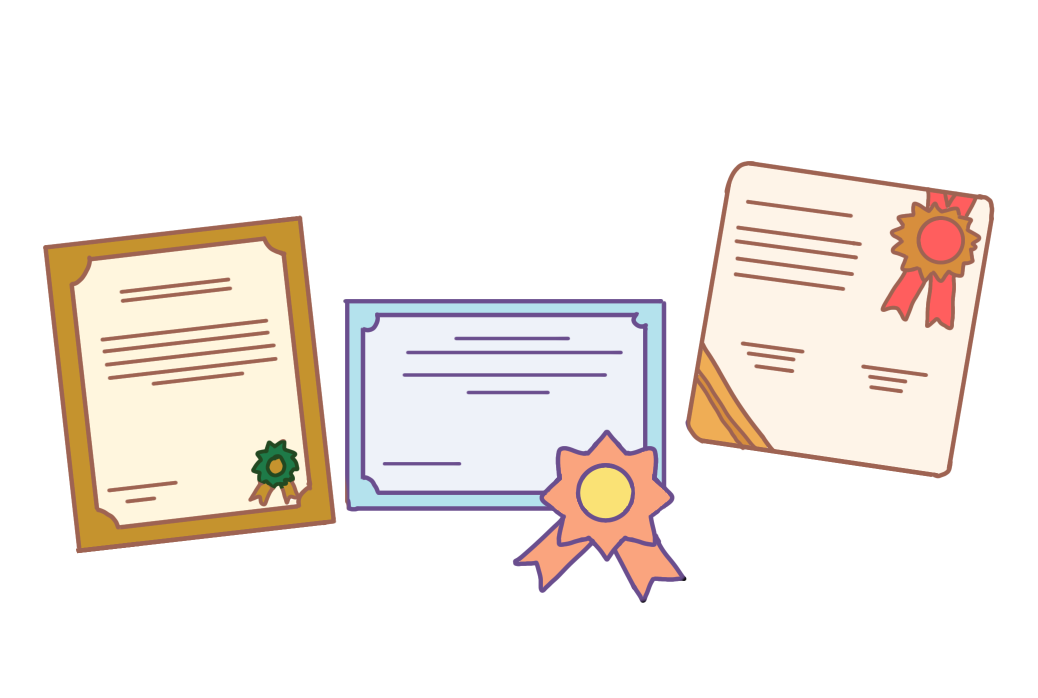
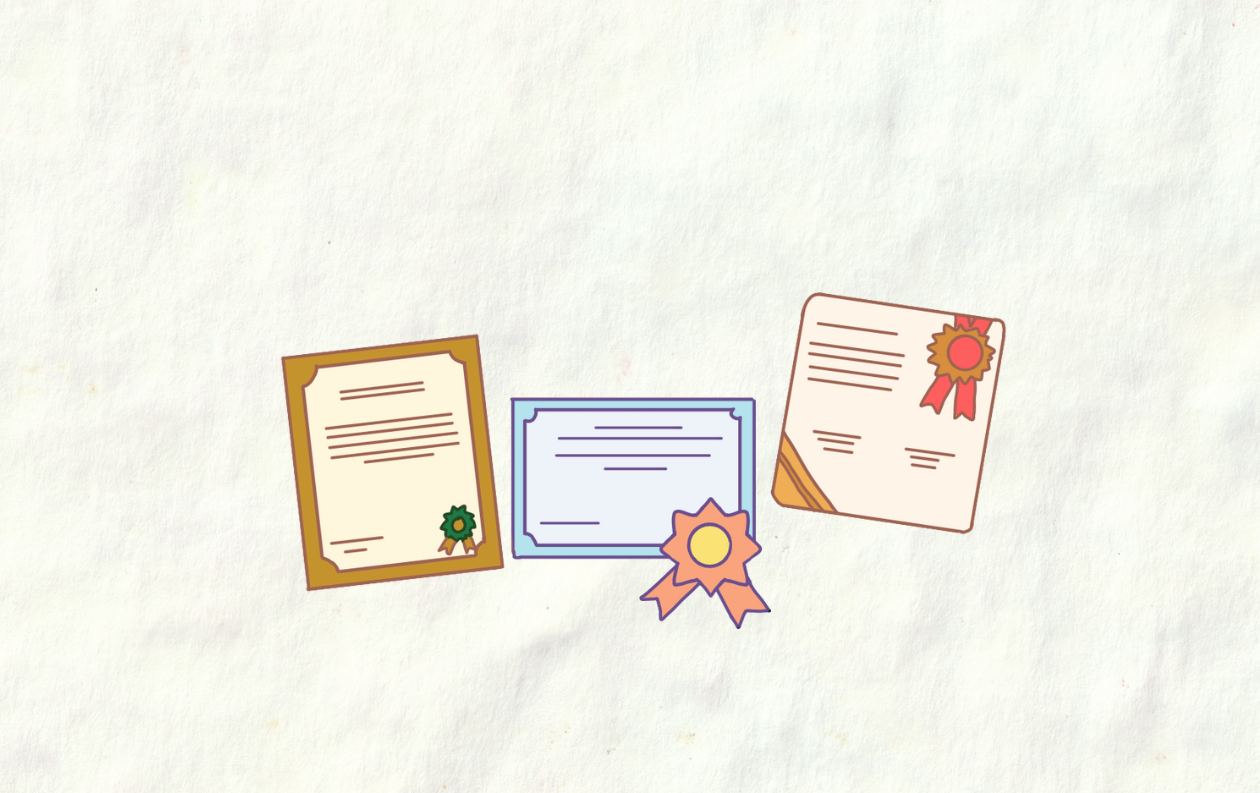
fix: at

diff --git a/src/components/THpage/HorizontalSection.jsx b/src/components/THpage/HorizontalSection.jsx
@@ -3,25 +3,74 @@ import React, { useRef, useEffect, useState } from 'react';
 const HorizontalSection = () => {
   const containerRef = useRef(null);
   const [, setIsScrolling] = useState(false);
+  const [audioReady, setAudioReady] = useState(false);
 
   // Danh sách ảnh
   const images = Array.from({ length: 9 }, (_, i) => `/THpage/horizontal-scroll/h${i + 1}.jpg`);
   const audioRef = useRef(null);
 
-  
+  // Preload và track audio ready state
+  useEffect(() => {
+    const audio = audioRef.current;
+    if (!audio) return;
+
+    const handleCanPlay = () => {
+      setAudioReady(true);
+    };
+
+    const handleError = (e) => {
+      console.error("Audio loading error:", e);
+    };
+
+    audio.addEventListener('canplaythrough', handleCanPlay);
+    audio.addEventListener('error', handleError);
+
+    // Force load audio
+    audio.load();
+
+    return () => {
+      audio.removeEventListener('canplaythrough', handleCanPlay);
+      audio.removeEventListener('error', handleError);
+    };
+  }, []);
+
   // Xử lý phát/dừng audio khi scroll vào/ra section
   useEffect(() => {
     const audio = audioRef.current;
     if (!audio) return;
 
+    const playAudio = async () => {
+      try {
+        // Đợi audio ready nếu chưa sẵn sàng
+        if (!audioReady) {
+          await new Promise((resolve) => {
+            const checkReady = () => {
+              if (audio.readyState >= 3) { // HAVE_FUTURE_DATA or HAVE_ENOUGH_DATA
+                resolve();
+              } else {
+                setTimeout(checkReady, 100);
+              }
+            };
+            checkReady();
+          });
+        }
+
+        audio.currentTime = 0;
+        await audio.play();
+      } catch (err) {
+        console.log("Audio play failed:", err);
+        // Retry sau 500ms nếu fail
+        setTimeout(() => {
+          audio.play().catch(e => console.log("Retry failed:", e));
+        }, 500);
+      }
+    };
+
     const handleIntersection = (entries) => {
       entries.forEach((entry) => {
         if (entry.isIntersecting) {
           // Scroll vào section -> phát audio từ đầu
-          audio.currentTime = 0;
-          audio.play().catch((err) => {
-            console.log("Audio play failed:", err);
-          });
+          playAudio();
         } else {
           // Scroll ra khỏi section -> dừng audio
           audio.pause();
@@ -46,7 +95,7 @@ const HorizontalSection = () => {
         audio.pause();
       }
     };
-  }, []);
+  }, [audioReady]);
 
   useEffect(() => {
     const container = containerRef.current;
@@ -54,7 +103,7 @@ const HorizontalSection = () => {
 
     const handleWheel = (e) => {
       const containerRect = container.getBoundingClientRect();
-      
+
       // Kiểm tra section có trong viewport không
       const isInView = containerRect.top <= 100 && containerRect.bottom >= 0;
 
@@ -110,7 +159,7 @@ const HorizontalSection = () => {
   return (
     <div
       ref={containerRef}
-      className="relative h-screen flex items-center justify-center bg-white overflow-x-hidden overflow-y-hidden"
+      className="relative min-h-screen flex items-center justify-center bg-white overflow-x-hidden overflow-y-hidden"
     >
       {/* Audio element */}
       <audio ref={audioRef} src="/THpage/voiceHorizon.m4a" preload="auto" />

diff --git a/src/components/THpage/FinalSection.jsx b/src/components/THpage/FinalSection.jsx
@@ -1,22 +1,72 @@
-import React, { useRef, useEffect } from "react";
+import React, { useRef, useEffect, useState } from "react";
 
 const FinalSection = () => {
   const sectionRef = useRef(null);
   const audioRef = useRef(null);
+  const [audioReady, setAudioReady] = useState(false);
+
+  // Preload và track audio ready state
+  useEffect(() => {
+    const audio = audioRef.current;
+    if (!audio) return;
+
+    const handleCanPlay = () => {
+      setAudioReady(true);
+    };
+
+    const handleError = (e) => {
+      console.error("Audio loading error:", e);
+    };
+
+    audio.addEventListener('canplaythrough', handleCanPlay);
+    audio.addEventListener('error', handleError);
+
+    // Force load audio
+    audio.load();
+
+    return () => {
+      audio.removeEventListener('canplaythrough', handleCanPlay);
+      audio.removeEventListener('error', handleError);
+    };
+  }, []);
 
   // Xử lý phát/dừng audio khi scroll vào/ra section
   useEffect(() => {
     const audio = audioRef.current;
     if (!audio) return;
 
+    const playAudio = async () => {
+      try {
+        // Đợi audio ready nếu chưa sẵn sàng
+        if (!audioReady) {
+          await new Promise((resolve) => {
+            const checkReady = () => {
+              if (audio.readyState >= 3) { // HAVE_FUTURE_DATA or HAVE_ENOUGH_DATA
+                resolve();
+              } else {
+                setTimeout(checkReady, 100);
+              }
+            };
+            checkReady();
+          });
+        }
+
+        audio.currentTime = 0;
+        await audio.play();
+      } catch (err) {
+        console.log("Audio play failed:", err);
+        // Retry sau 500ms nếu fail
+        setTimeout(() => {
+          audio.play().catch(e => console.log("Retry failed:", e));
+        }, 500);
+      }
+    };
+
     const handleIntersection = (entries) => {
       entries.forEach((entry) => {
         if (entry.isIntersecting) {
           // Scroll vào section -> phát audio từ đầu
-          audio.currentTime = 0;
-          audio.play().catch((err) => {
-            console.log("Audio play failed:", err);
-          });
+          playAudio();
         } else {
           // Scroll ra khỏi section -> dừng audio
           audio.pause();
@@ -41,13 +91,13 @@ const FinalSection = () => {
         audio.pause();
       }
     };
-  }, []);
+  }, [audioReady]);
 
   return (
     <div ref={sectionRef} className="h-screen flex flex-col items-center justify-center">
       <audio ref={audioRef} src="/THpage/voiceFinal.m4a" preload="auto" />
       <img
-        src="/THpage/final.webp"
+        src="/THpage/final.jpg"
         alt="final"
         className="w-full h-full object-cover"
       />

diff --git a/src/components/ATpage/RoleSection.jsx b/src/components/ATpage/RoleSection.jsx
@@ -11,6 +11,8 @@ const RoleSection = forwardRef(({ scrollContainerRef }, ref) => {
   const sectionRef = useRef(null);
   const isScrollingRef = useRef(false);
   const currentImageRef = useRef(currentImage);
+  const text = ["", "Ở giảng đường, Anh Thư là một sinh viên lặng lẽ, tập trung vào học tập và kỷ luật bản thân, quen với áp lực và những đêm dài hoàn thành công việc. Cô ít nói về khó khăn, chọn cách tự chịu và tự vượt qua, coi nỗ lực là điều hiển nhiên của một người đi học.", "Còn khi chỉ có mình và màn hình sáng khuya, Anh Thư trở lại là một người trẻ bình thường: biết mệt, biết chậm lại, và biết thừa nhận giới hạn của bản thân. Chính những khoảnh khắc riêng tư ấy giúp cô giữ được sự cân bằng, để ngày mai lại tiếp tục đảm nhận tốt những vai trò của mình.", "Khi khoác màu áo Đoàn, Anh Thư trở thành người đứng ở tuyến đầu trách nhiệm, gánh vác việc chung, luôn cố gắng vững vàng để người khác yên tâm dựa vào. Trong vai trò ấy, Anh Thư học cách đặt tập thể lên trước cảm xúc cá nhân, dù đôi lúc chính mình cũng cần được lắng nghe."];
+  const position = ["top-10 left-10", "top-10 right-10", "top-5 left-130"];
 
   // Preload ảnh khi component mount
   useEffect(() => {
@@ -107,10 +109,10 @@ const RoleSection = forwardRef(({ scrollContainerRef }, ref) => {
 
   return (
     <div ref={sectionRef} className="h-[100vh] w-full relative overflow-hidden">
-      <RoleImageSlide imageName="role1.png" isActive={currentImage === 1} />
-      <RoleImageSlide imageName="role2.png" isActive={currentImage === 2} />
-      <RoleImageSlide imageName="role3.png" isActive={currentImage === 3} />
-      <RoleImageSlide imageName="role4.png" isActive={currentImage === 4} />
+      <RoleImageSlide imageName="role1.png" isActive={currentImage === 1} text={text[0]} />
+      <RoleImageSlide imageName="role2.png" isActive={currentImage === 2} text={text[1]} position={position[0]} />
+      <RoleImageSlide imageName="role3.png" isActive={currentImage === 3} text={text[2]} position={position[1]} />
+      <RoleImageSlide imageName="role4.png" isActive={currentImage === 4} text={text[3]} position={position[2]} />
     </div>
   );
 });

diff --git a/src/components/ATpage/IntroSection.jsx b/src/components/ATpage/IntroSection.jsx
@@ -1,11 +1,12 @@
 const IntroSection = () => {
   return (
-    <div className="bg-white h-[100vh] flex items-center justify-center">
+    <div className="bg-[url('ATpage/bgIntroAT.jpg')] bg-cover bg-center bg-no-repeat h-[100vh] flex items-center justify-center">
       <p className="w-[60%] text-5xl text-gray-800 font-['Itim'] leading-relaxed">
-        Chiến thắng chỉ là khởi đầu - và đôi khi lại là bài kiểm tra của chính
-        mình Có những chiến thắng khiến người ta vỡ òa trong hạnh phúc. Nhưng
-        cũng có những chiến thắng nhắc ta đứng thẳng, mạnh mẽ và kiên cường hơn
-        bao giờ hết.
+        Ít ai nhìn thấy những khoảng lặng phía sau những tấm giấy khen và lời ghi
+        nhận. Có một cô gái đã đi qua giảng đường với nhịp bước bền bỉ, gánh
+        trên vai nhiều trách nhiệm hơn tuổi của mình. Trong hành trình ấy, có
+        mệt mỏi, có những lúc chông chênh, nhưng cũng từ đó nảy nở sự trưởng
+        thành rất dịu dàng mang tên Anh Thư.
       </p>
     </div>
   );

diff --git a/src/components/ATpage/RoleImageSlide.jsx b/src/components/ATpage/RoleImageSlide.jsx
@@ -1,15 +1,15 @@
-const RoleImageSlide = ({ imageName, isActive }) => {
+const RoleImageSlide = ({ imageName, isActive, text, position }) => {
   return (
     <div
-      className={`absolute inset-0 flex items-center justify-center w-full h-full transition-opacity duration-500 ${
-        isActive ? "opacity-100" : "opacity-0"
-      }`}
+      className={`absolute inset-0 flex items-center justify-center w-full h-full transition-opacity duration-500 ${isActive ? "opacity-100" : "opacity-0"
+        }`}
     >
       <img
         src={`/ATpage/${imageName}`}
         alt={imageName}
         className="w-full h-full object-cover"
       />
+      {text && <p className={`absolute ${position} text-center text-2xl font-bold p-4 border-4 border-black bg-white font-[Itim] text-black w-[400px] rounded-2xl`}>{text}</p>}
     </div>
   );
 };

diff --git a/src/components/ATpage/ComputerImageSlide.jsx b/src/components/ATpage/ComputerImageSlide.jsx
@@ -1,15 +1,15 @@
-const ComputerImageSlide = ({ imageName, isActive }) => {
+const ComputerImageSlide = ({ imageName, isActive, text }) => {
   return (
     <div
-      className={`absolute inset-0 flex items-center justify-center w-full h-full transition-opacity duration-500 ${
-        isActive ? "opacity-100" : "opacity-0"
-      }`}
+      className={`absolute inset-0 flex items-center justify-center w-full h-full transition-opacity duration-500 ${isActive ? "opacity-100" : "opacity-0"
+        }`}
     >
       <img
         src={`/ATpage/${imageName}`}
         alt={imageName}
         className="w-full h-full object-cover"
       />
+      {text && <p className="absolute top-0 left-0 right-0 text-center text-black font-[Itim] text-5xl p-10">{text}</p>}
     </div>
   );
 };

diff --git a/src/components/ATpage/ComputerSection.jsx b/src/components/ATpage/ComputerSection.jsx
@@ -110,7 +110,7 @@ const ComputerSection = forwardRef(({ scrollContainerRef }, ref) => {
 
   return (
     <div ref={sectionRef} className="h-[100vh] w-full relative overflow-hidden">
-      <ComputerImageSlide imageName="prize.png" isActive={currentImage === 1} />
+      <ComputerImageSlide imageName="prize.png" isActive={currentImage === 1} text="Mọi người thấy Thư rạng rỡ khi nhận giấy khen, nhưng ít ai biết có những đêm cô mệt đến mức không muốn gõ thêm dòng nào." />
       <ComputerImageSlide imageName="computer.png" isActive={currentImage === 2} />
       <ComputerImageSlide imageName="computer.gif" isActive={currentImage === 3} />
     </div>

diff --git a/src/components/ATpage/MentalHealthChart.jsx b/src/components/ATpage/MentalHealthChart.jsx
@@ -105,6 +105,7 @@ const MentalHealthChart = ({ className = "" }) => {
           />
         </LineChart>
       </ResponsiveContainer>
+      <p className="absolute bottom-0 left-0 right-0 text-center font-['Itim'] text-black text-lg p-10 italic w-[60%] mx-auto">* Dữ liệu được sử dụng trong phân tích này trích từ nghiên cứu Mental Health in University Students in Vietnam: A Case Study Analysis, tiến hành trên mẫu 200 sinh viên đại học tại Việt Nam, với tỷ lệ lớn là sinh viên năm nhất và nữ giới.</p>
     </div>
   );
 };
